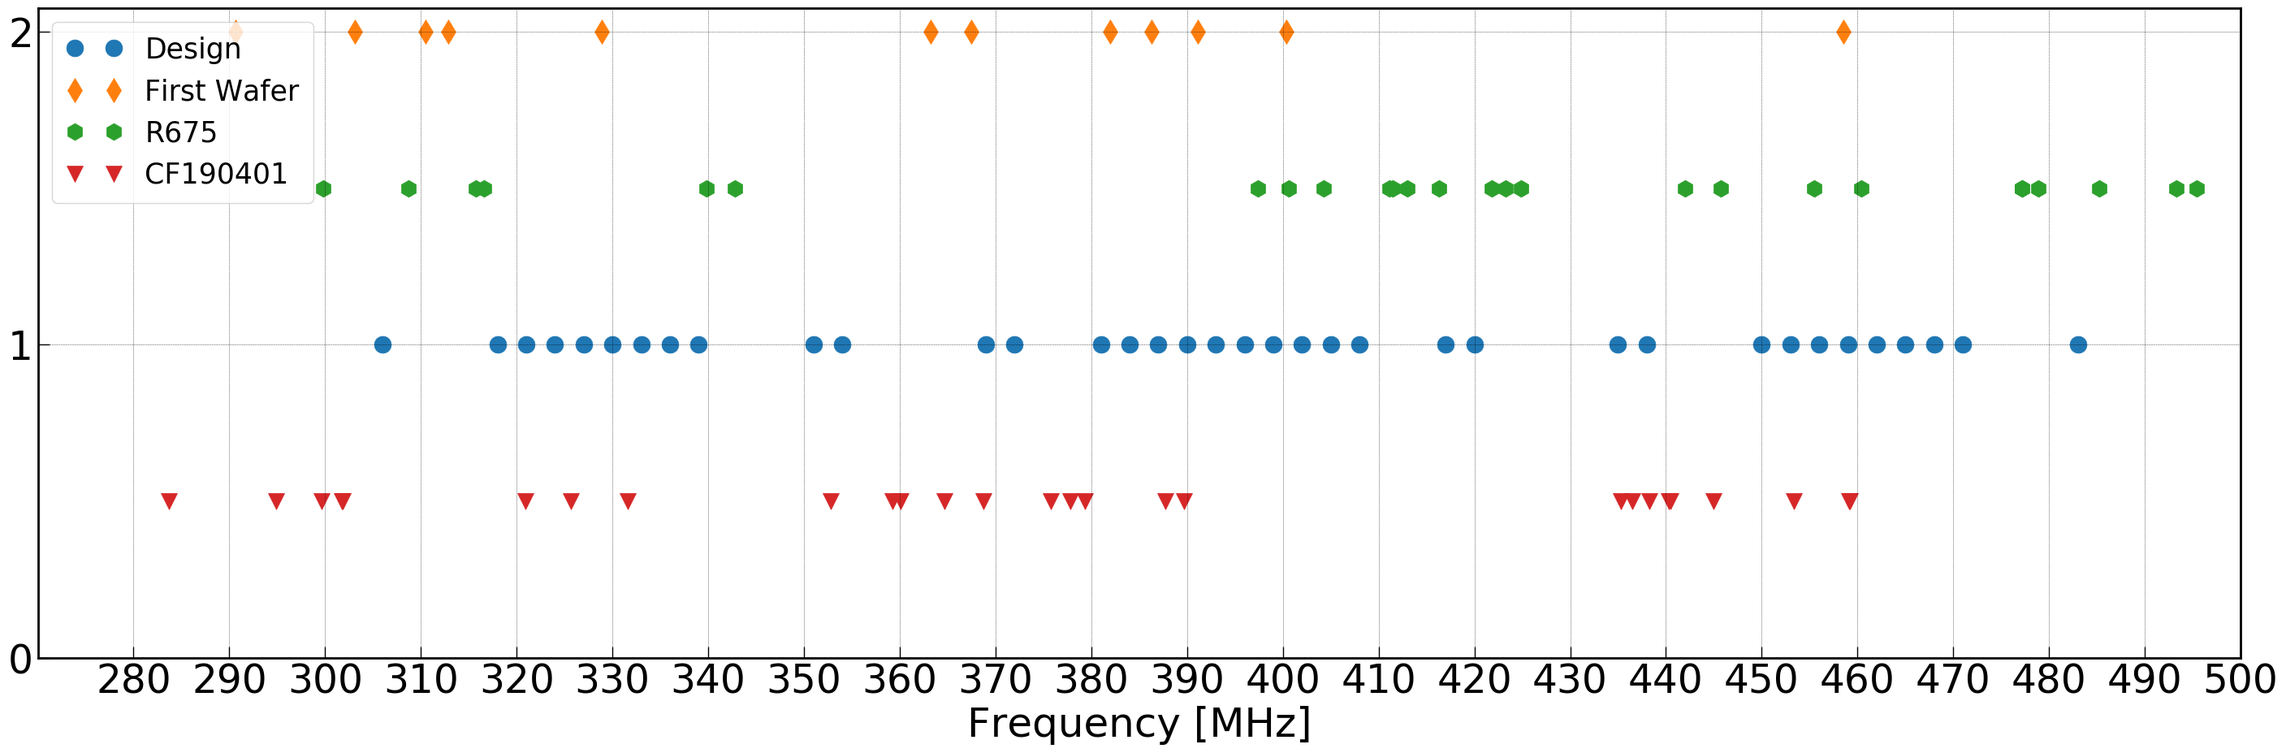
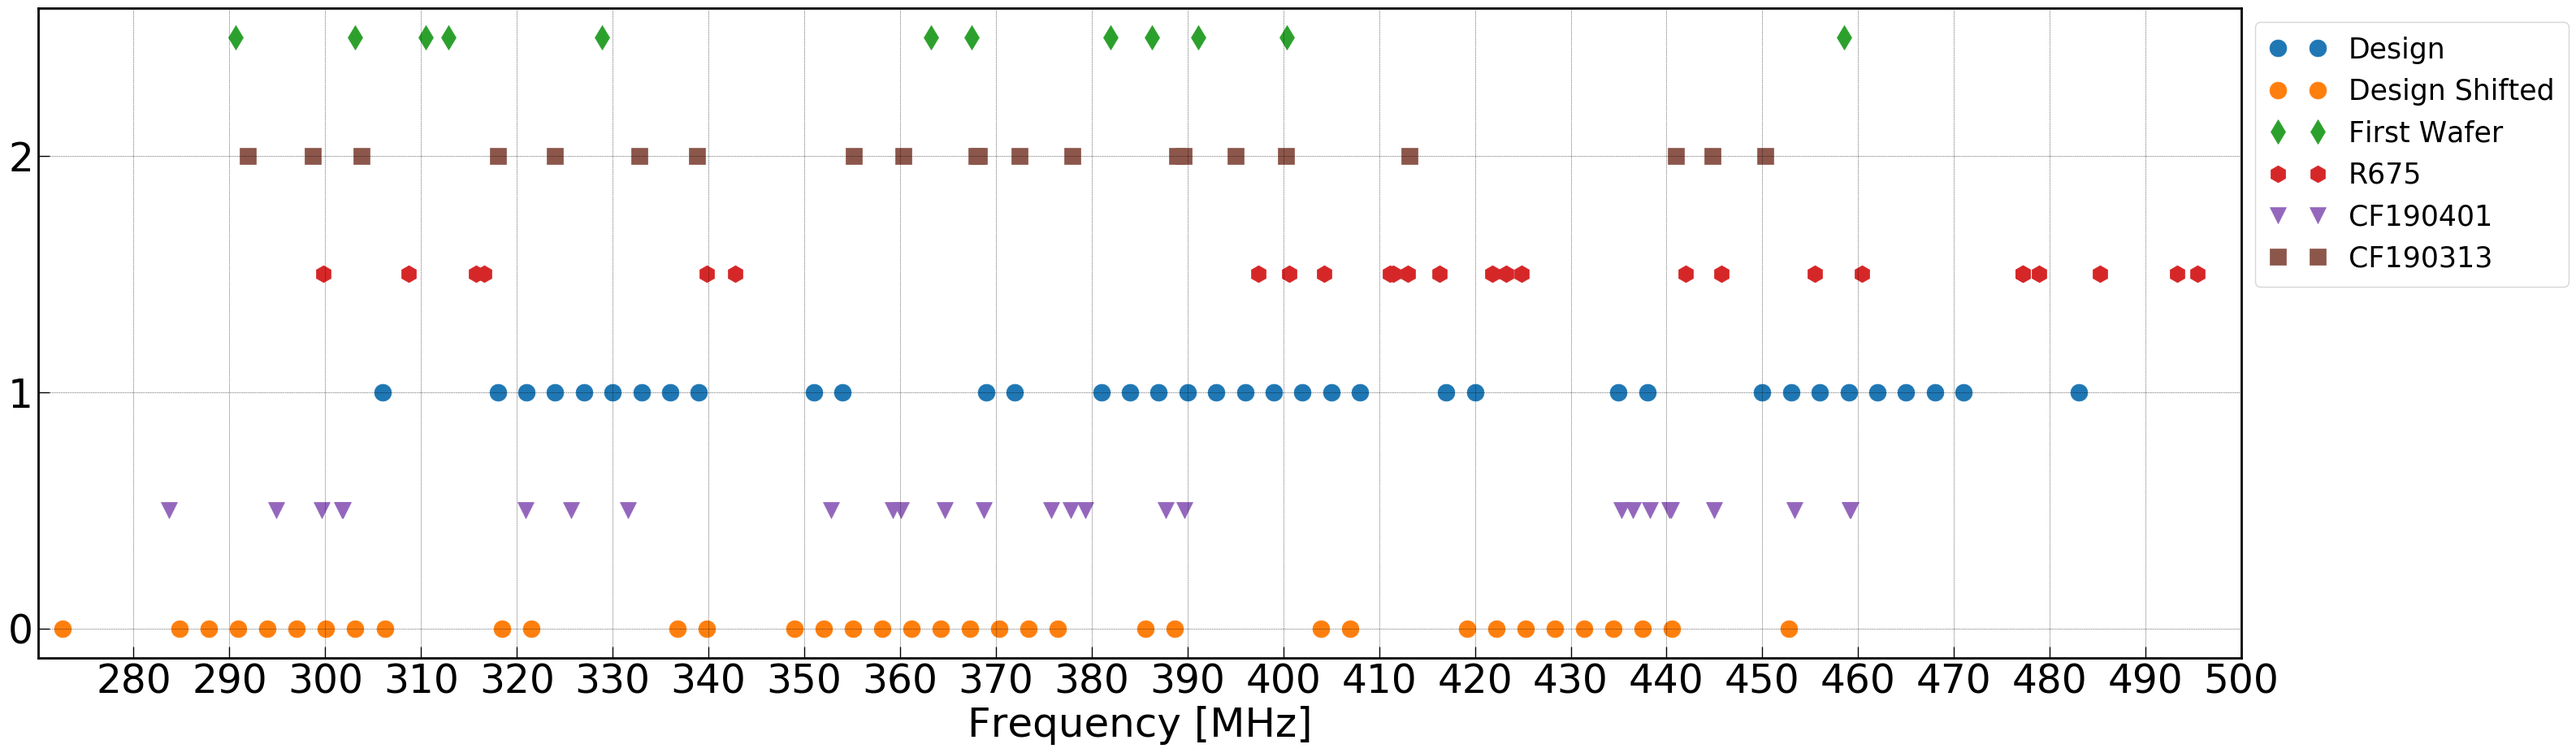
analyzing the darkresonator array statistics

diff --git a/code/darkresostatistics.py b/code/darkresostatistics.py
@@ -25,10 +25,14 @@ cf190401 = np.array([283.7, 294.9, 299.6, 301.78, 301.83, 320.9, 325.7, 331.6,
 design = np.array([306, 318, 321, 324, 327, 330, 333, 336, 339, 351, 354, 369,
 	372, 381, 384, 387, 390, 393, 396, 399, 402, 405, 408, 417, 420, 435, 438,
 	450, 453, 456, 459, 462, 465, 468, 471, 483])
+cf190313 = np.array([291.9, 298.7, 303.8, 318.0, 324.0, 332.8, 338.8, 355.2,
+	360.3, 368.0, 368.2, 372.5, 378.0, 388.9, 389.6, 395.0, 400.3, 413.2,
+	441.0, 444.8, 450.3])
 
 print (firstwafer.size)
 print (r675.size)
 print (cf190401.size)
+print (cf190313.size)
 print (design.size)
 xticks = 280 + 10*np.arange(23)
 
@@ -37,20 +41,25 @@ tdesign = 1.018*design - 38.9
 plt.figure(figsize=(35,10))
 plt.plot(design, np.ones(design.size), marker='o', ms=15,
 		linestyle='None', label='Design')
-plt.plot(firstwafer, np.ones(firstwafer.size) + 1, marker='d', ms=15,
+plt.plot(1.018*design-38.9, np.zeros(design.size), marker='o', ms=15,
+		linestyle='None', label='Design Shifted')
+plt.plot(firstwafer, np.ones(firstwafer.size) + 1.5, marker='d', ms=15,
 		linestyle='None', label='First Wafer')
 plt.plot(r675, np.ones(r675.size) + 0.5, marker='h', ms=15, linestyle='None',
 		label='R675')
 plt.plot(cf190401, np.ones(cf190401.size) - 0.5, marker='v', ms=15,
 		linestyle='None', label='CF190401')
+plt.plot(cf190313, np.ones(cf190313.size) + 1.0, marker='s', ms=15,
+		linestyle='None', label='CF190313')
 plt.grid()
 plt.xticks(xticks)
 plt.xlim((270, 500))
 plt.yticks([0, 1, 2])
 #plt.axis('tight')
-plt.legend(loc='upper left')
+lgd = plt.legend(bbox_to_anchor=(1.0, 1.0))#loc='upper left')
 plt.xlabel('Frequency [MHz]')
-plt.savefig('frequencyscatter_darkreso.png')
+plt.savefig('frequencyscatter_darkreso.png', bbox_extra_artists=(lgd,),
+		bbox_inches='tight')
 
 #plt.figure(figsize=(35,10))
 #plt.plot(design, np.ones(design.size), marker='o', ms=15,
@@ -104,10 +113,12 @@ design_cdf = generate_cdf(X, design)
 firstwafer_cdf = generate_cdf(X, firstwafer)
 r675_cdf = generate_cdf(X, r675)
 cf190401_cdf = generate_cdf(X, cf190401)
+cf190313_cdf = generate_cdf(X, cf190313)
 
 firstwafer_KS = get_KS_statistic(design_cdf, firstwafer_cdf)
 r675_KS = get_KS_statistic(design_cdf, r675_cdf)
 cf190401_KS = get_KS_statistic(design_cdf, cf190401_cdf)
+cf190313_KS = get_KS_statistic(design_cdf, cf190313_cdf)
 
 alpha = 0.05
 def reject_nullhypothesis(alpha, n, m, Dnm):
@@ -119,6 +130,7 @@ def reject_nullhypothesis(alpha, n, m, Dnm):
 print (reject_nullhypothesis(alpha, design.size, firstwafer.size, firstwafer_KS))
 print (reject_nullhypothesis(alpha, design.size, r675.size, r675_KS))
 print (reject_nullhypothesis(alpha, design.size, cf190401.size, cf190401_KS))
+print (reject_nullhypothesis(alpha, design.size, cf190313.size, cf190313_KS))
 
 
 plt.figure(figsize=(10,10))
@@ -126,6 +138,7 @@ plt.plot(X, design_cdf, label='Design')
 plt.plot(X, firstwafer_cdf, label='First Wafer, KS=%1.2f'%(firstwafer_KS))
 plt.plot(X, r675_cdf, label='R675, KS=%1.2f'%(r675_KS))
 plt.plot(X, cf190401_cdf, label='CF190401, KS=%1.2f'%(cf190401_KS))
+plt.plot(X, cf190313_cdf, label='CF190313, KS=%1.2f'%(cf190313_KS))
 plt.legend(loc='upper left')
 plt.grid()
 plt.xlabel('Resonance Frequency [MHz]')
